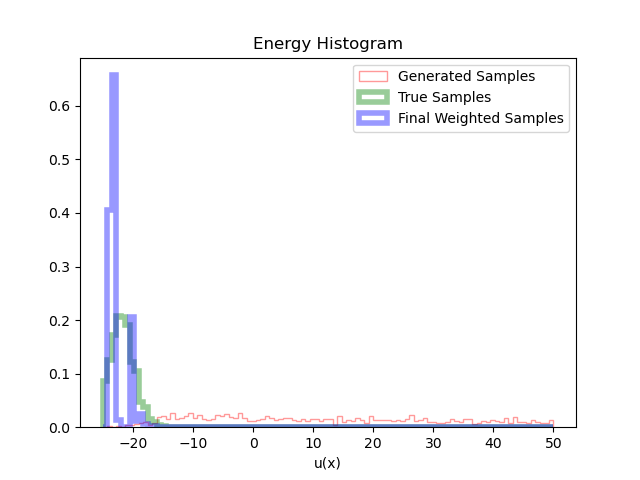
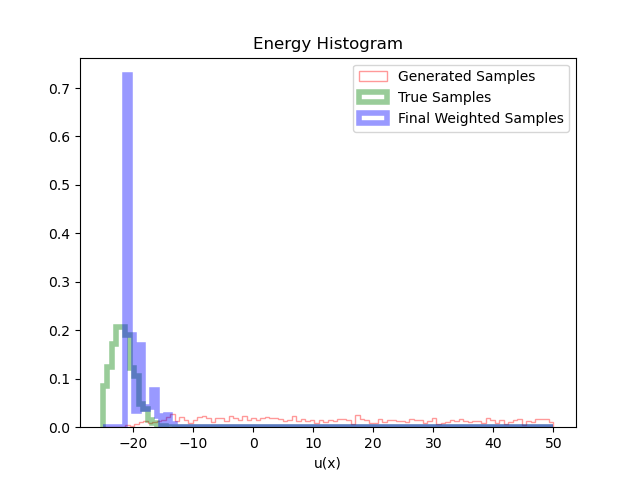
done with the plots

diff --git a/eval_and_plot.py b/eval_and_plot.py
@@ -263,8 +263,8 @@ def main():
         samples = 10000
         device = torch.device("cuda:0" if torch.cuda.is_available() else "cpu")
         latent = prior.sample(size=[samples, 4, 2], device=device)
-        # lambs = [0.0]
-        lambs = [0.0, 0.1, 0.3, 0.5]
+        lambs = [0.0]
+        # lambs = [0.0, 0.1, 0.3, 0.5]
         # saved_models_dir = f"{model_dir}/best_model_{args.model}/n_data_{args.n_data}"
         # saved_models_dir = os.path.join(os.getcwd(), models_path)
 
